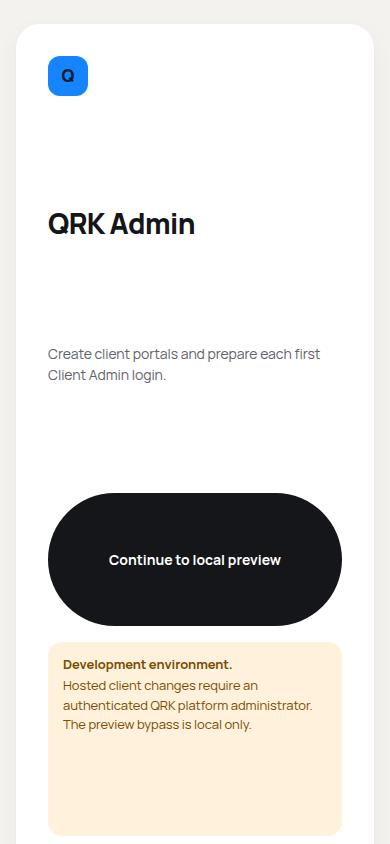
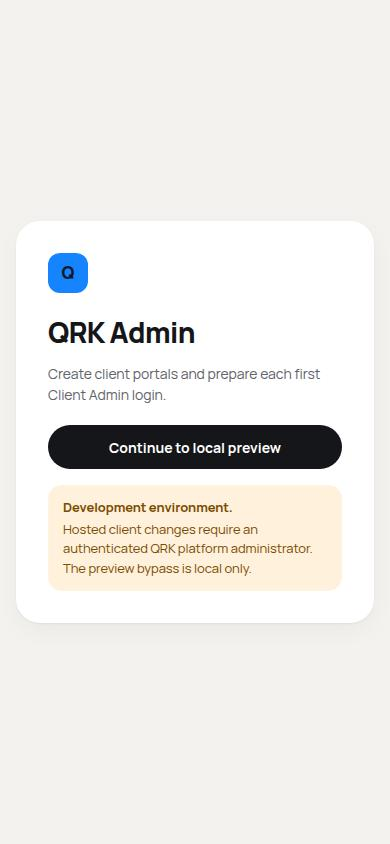
Fix QRK Admin final review findings: manage sheet buttons, gate height, Escape/focus, specimen names

Changed region(s): [[0.1231, 0.2464, 0.8923, 0.7393], [0.1538, 0.7701, 0.8, 0.8934], [0.1231, 0.0616, 0.2462, 0.1232]]

diff --git a/dist/admin/admin.js b/dist/admin/admin.js
@@ -9,7 +9,7 @@ if(!hosted)$('#platform-login-form').hidden=true;else $('#platform-continue').hi
 function readClients(){let saved=[];try{const value=JSON.parse(localStorage.getItem(CLIENTS_KEY)||'[]');if(Array.isArray(value))saved=value}catch{}const canonicalIds=new Set(DEVELOPMENT_CLIENTS.map(client=>client.id)),savedById=new Map(saved.map(client=>[client.id,client])),savedBySlug=new Map(saved.map(client=>[client.slug,client])),merged=[...saved.filter(client=>!canonicalIds.has(client.id)&&!DEVELOPMENT_CLIENTS.some(seed=>seed.slug===client.slug)),...DEVELOPMENT_CLIENTS.map(client=>{const stored=savedById.get(client.id)||savedBySlug.get(client.slug);return{...client,...stored,admin:{...client.admin,...stored?.admin}}})];localStorage.setItem(CLIENTS_KEY,JSON.stringify(merged));return merged}
 function saveClients(){localStorage.setItem(CLIENTS_KEY,JSON.stringify(clients))}
 async function loadClients(){clients=hosted?await platformService.list():readClients();render()}
-async function openWorkspace(preview=false){if(hosted&&!preview)await loadClients();$('#platform-login').hidden=true;$('#platform-shell').hidden=false;$('#platform-access-label').textContent=preview?'Local preview':'Hosted access';showView('overview');render();setTimeout(()=>document.body.classList.add('admin-settled'),600)}
+async function openWorkspace(preview=false){if(hosted&&!preview)await loadClients();$('#platform-login').hidden=true;$('#platform-shell').hidden=false;{const pill=$('#platform-access-label');pill.textContent=preview?'Local preview':'Hosted access';pill.classList.toggle('is-neutral',!preview);if(preview)pill.title='Development environment. Clients and credentials created here are stored in this browser and are not hosted accounts.';else pill.removeAttribute('title')}showView('overview');render();setTimeout(()=>document.body.classList.add('admin-settled'),600)}
 function segment(value){return String(value||'').normalize('NFKD').replace(/[\u0300-\u036f]/g,'').toLowerCase().replace(/[^a-z0-9]+/g,'-').replace(/^-+|-+$/g,'')}
 function usernameSegment(value){return String(value||'').toLowerCase().replace(/[^a-z0-9_-]+/g,'')}
 function announce(message){const toast=$('#platform-toast');toast.textContent=message;toast.hidden=false;clearTimeout(toastTimer);toastTimer=setTimeout(()=>toast.hidden=true,3200)}
@@ -37,7 +37,7 @@ const plural=(count,word)=>`${count} ${word}${count===1?'':'s'}`;
 const recentClients=()=>clients.map((client,index)=>({client,index,time:Date.parse(client.createdAt)||0})).sort((a,b)=>b.time-a.time||b.index-a.index).slice(0,6).map(item=>item.client);
 function overviewMarkup(){const stats=overviewStats(clients,statuses),attention=[stats.paused&&`${stats.paused} paused`,stats.pending&&plural(stats.pending,'first login')+' pending'].filter(Boolean).join(' · ');return `<article class="admin-stat is-strong"><span>Live portals</span><p><strong>${stats.active}</strong> of ${stats.total} active</p><div class="admin-segments" aria-hidden="true">${clients.map(client=>`<i${client.status==='paused'?'':' class="is-on"'}></i>`).join('')}</div></article><article class="admin-stat"><span>Needs attention</span>${stats.attentionCount?`<p><strong class="is-warn">${stats.attentionCount}</strong> ${attention}</p><small>${stats.attention.map(esc).join(' · ')}</small>`:'<p><strong>0</strong> <b class="is-ok">All clear</b></p>'}</article><article class="admin-stat"><span>Service mix</span><div class="admin-mix" aria-hidden="true">${stats.mix.map((item,index)=>`<i style="width:${item.count/stats.total*100}%;background:${MIX_COLORS[index%MIX_COLORS.length]}"></i>`).join('')}</div><ul class="admin-legend">${stats.mix.map((item,index)=>`<li><i style="background:${MIX_COLORS[index%MIX_COLORS.length]}"></i>${esc(item.label)} <b>${item.count}</b></li>`).join('')}</ul></article>`}
 function renderClients(){const list=filterClients(clients,{query:clientQuery,filter:clientFilter},statuses),counts=filterCounts(clients,statuses),empty=$('#client-empty');$$('[data-client-filter]').forEach(button=>{button.querySelector('span').textContent=counts[button.dataset.clientFilter];button.setAttribute('aria-pressed',String(button.dataset.clientFilter===clientFilter))});$('#client-list').innerHTML=list.map(card).join('');empty.hidden=list.length>0;empty.innerHTML=clients.length?'<h2>No clients match</h2><p>Try another search or filter.</p><button class="button outline" type="button" data-clear-filters>Clear filters</button>':'<h2>Add your first client</h2><p>Create a portal and its first Client Admin login.</p><button class="button primary" type="button" data-add-client>Add client</button>'}
-function render(){const count=clients.length;$('#nav-client-count').textContent=count;$('#overview-stats').innerHTML=overviewMarkup();$('#view-all-clients').textContent=`View all ${count}`;$('#recent-client-list').innerHTML=recentClients().map(card).join('');$('#admin-count-label').textContent=plural(count,'account');$('#admin-list').innerHTML=clients.map(client=>adminRow(client,statuses)).join('');renderClients();renderManageSheet()}
+function render(){const count=clients.length;$('#nav-client-count').textContent=count;$('.admin-rail [data-admin-view="clients"]').setAttribute('aria-label',`Clients, ${count}`);$('#overview-stats').innerHTML=overviewMarkup();$('#view-all-clients').textContent=`View all ${count}`;$('#recent-client-list').innerHTML=recentClients().map(card).join('');$('#admin-count-label').textContent=plural(count,'account');$('#admin-list').innerHTML=clients.map(client=>adminRow(client,statuses)).join('');renderClients();renderManageSheet()}
 async function refreshStatuses(){try{statuses=await authService.previewAccountStatuses()}catch{statuses=null}render()}
 function showView(view){$$('[data-view-panel]').forEach(panel=>panel.hidden=panel.dataset.viewPanel!==view);$$('.admin-rail [data-admin-view]').forEach(button=>button.dataset.adminView===view?button.setAttribute('aria-current','page'):button.removeAttribute('aria-current'));const labels={overview:'Overview',clients:'Clients',accounts:'Client Admins',appearance:'Appearance'};$('#platform-page-title').textContent=labels[view];$('.admin-add-client').hidden=!['overview','clients'].includes(view);document.title=`QRK MENU | ${labels[view]}`;window.scrollTo(0,0)}
 const GATES={quick:[['consumption','Consumption','dine-in / takeaway'],['fulfillment','Fulfillment','table / pickup'],['quick_payment','Payment','counter'],['locator','Order locator','table number']],table:[['table_entry','Table entry','permanent QR'],['party_size','Party size','required'],['bundle','Bundle selection','none'],['entry_payment','Entry payment','none'],['entitlement','Entitlements & refills','none'],['time_limit','Time limit','none'],['quantity_limit','Quantity limit','none'],['payment_timing','Payment timing','at bill'],['joining','Joining','host approval'],['host_permissions','Host permissions','approve guest orders'],['bill_closure','Bill & closure','lock after bill'],['inactivity','Inactivity','120 min + grace']]};
@@ -60,10 +60,10 @@ function openClientDialog(client=null){const form=$('#client-form');form.reset()
 $('#platform-continue').addEventListener('click',async()=>{try{await authService.migratePreviewUsers();await openWorkspace(true)}catch(reason){announce(reason.message)}});
 $('#platform-login-form').addEventListener('submit',async event=>{event.preventDefault();const error=$('#platform-login-error');error.textContent='';try{await authService.signInPlatform(event.currentTarget.elements.username.value,event.currentTarget.elements.password.value);await openWorkspace()}catch(reason){error.textContent=reason.message}});
 $('#platform-logout').addEventListener('click',async()=>{await authService.signOut();$('#platform-shell').hidden=true;$('#platform-login').hidden=false;document.title='QRK MENU | QRK Admin';(hosted?$('#platform-login-form input'):$('#platform-continue')).focus()});
-document.addEventListener('click',async event=>{if(!hosted)return;const action=event.target.closest('[data-reset-client-password],[data-open-client],[data-toggle-client]');if(!action)return;event.stopImmediatePropagation();const client=clients.find(item=>item.id===action.closest('[data-client-id]').dataset.clientId);try{if(action.matches('[data-reset-client-password]')){action.disabled=true;const credentials=await platformService.reset(client.id);$('#credentials-title').textContent='Share the reset Client Admin login';$('#credentials-intro').textContent='This replacement temporary password is shown once. The Client Admin must replace it at next login.';$('#created-admin-username').textContent=credentials.username;$('#created-admin-password').textContent=credentials.temporaryPassword;$('#credentials-dialog').showModal();announce(`${client.businessName} temporary password reset`)}else if(action.matches('[data-open-client]'))location.href='/?client-login=1';else{await platformService.pause(client.id,client.status!=='active');await loadClients();announce(`${client.businessName} ${client.status==='active'?'activated':'paused'} in hosted development`)}}catch(reason){announce(reason.message)}finally{if(action.isConnected)action.disabled=false}},true);
+document.addEventListener('click',async event=>{if(!hosted)return;const action=event.target.closest('[data-reset-client-password],[data-open-client],[data-toggle-client]');if(!action)return;event.stopImmediatePropagation();const client=clients.find(item=>item.id===action.closest('[data-client-id]').dataset.clientId);try{if(action.matches('[data-reset-client-password]')){action.disabled=true;const credentials=await platformService.reset(client.id);$('#credentials-title').textContent='Share the reset Client Admin login';$('#credentials-intro').textContent='This replacement temporary password is shown once. The Client Admin must replace it at next login.';$('#created-admin-username').textContent=credentials.username;$('#created-admin-password').textContent=credentials.temporaryPassword;manageController.close({restoreFocus:false});$('#credentials-dialog').showModal();announce(`${client.businessName} temporary password reset`)}else if(action.matches('[data-open-client]'))location.href='/?client-login=1';else{await platformService.pause(client.id,client.status!=='active');await loadClients();announce(`${client.businessName} ${client.status==='active'?'activated':'paused'} in hosted development`)}}catch(reason){announce(reason.message)}finally{if(action.isConnected)action.disabled=false}},true);
 $('#client-search').addEventListener('input',event=>{clientQuery=event.target.value;renderClients()});
 document.addEventListener('click',event=>{const filter=event.target.closest('[data-client-filter]');if(filter){clientFilter=filter.dataset.clientFilter;renderClients()}if(event.target.closest('[data-clear-filters]')){clientQuery='';clientFilter='all';$('#client-search').value='';renderClients();$('#client-search').focus()}});
-document.addEventListener('click',async event=>{const view=event.target.closest('[data-admin-view]');if(view)showView(view.dataset.adminView);if(event.target.closest('[data-add-client]'))openClientDialog();const configure=event.target.closest('[data-configure-client]');if(configure){const id=configure.closest('[data-client-id]').dataset.clientId;openClientDialog(clients.find(client=>client.id===id))}if(event.target.closest('.close-dialog'))event.target.closest('dialog').close();const reset=event.target.closest('[data-reset-client-password]');if(reset){const id=reset.closest('[data-client-id]').dataset.clientId,client=clients.find(item=>item.id===id);reset.disabled=true;try{const credentials=await authService.resetPreviewUserPassword(client.admin.username,{displayName:client.admin.name,email:client.admin.email,role:'admin',permissions:{viewOrders:true,acceptOrders:true,prepareOrders:true,markReady:true,completeOrders:true,cancelOrders:true,changeAvailability:true,editMenu:true,viewOrderHistory:true,viewSales:true,manageStaff:true},businessId:`preview:${client.slug}`,businessName:client.businessName,businessSlug:client.slug,serviceMode:client.serviceProfile.settings.serviceMode,active:client.status==='active'});client.admin.access='Password reset required';saveClients();render();refreshStatuses();$('#credentials-title').textContent='Share the reset Client Admin login';$('#credentials-intro').textContent='This replacement temporary password is shown once. The Client Admin must replace it at next login.';$('#created-admin-username').textContent=credentials.username;$('#created-admin-password').textContent=credentials.temporaryPassword;$('#credentials-dialog').showModal();announce(`${client.businessName} temporary password reset`)}catch(reason){announce(reason.message)}finally{if(reset.isConnected)reset.disabled=false}}const openClient=event.target.closest('[data-open-client]');if(openClient){const id=openClient.closest('[data-client-id]').dataset.clientId,client=clients.find(item=>item.id===id);try{await authService.signInDevelopment({displayName:client.admin.name,username:client.admin.username,businessId:`preview:${client.slug}`,businessName:client.businessName,businessSlug:client.slug,serviceMode:client.serviceProfile.settings.serviceMode,role:'admin',permissions:{viewOrders:true,acceptOrders:true,prepareOrders:true,markReady:true,completeOrders:true,cancelOrders:true,changeAvailability:true,editMenu:true,viewOrderHistory:true,viewSales:true,manageStaff:true}});location.href='/'}catch(reason){announce(reason.message)}}const toggle=event.target.closest('[data-toggle-client]');if(toggle){const id=toggle.closest('[data-client-id]').dataset.clientId,client=clients.find(item=>item.id===id);client.status=client.status==='active'?'paused':'active';saveClients();render();announce(`${client.businessName} ${client.status==='active'?'activated':'paused'} in this preview`)}});
+document.addEventListener('click',async event=>{const view=event.target.closest('[data-admin-view]');if(view)showView(view.dataset.adminView);if(event.target.closest('[data-add-client]'))openClientDialog();const configure=event.target.closest('[data-configure-client]');if(configure){const id=configure.closest('[data-client-id]').dataset.clientId;openClientDialog(clients.find(client=>client.id===id))}if(event.target.closest('.close-dialog'))event.target.closest('dialog').close();const reset=event.target.closest('[data-reset-client-password]');if(reset){const id=reset.closest('[data-client-id]').dataset.clientId,client=clients.find(item=>item.id===id);reset.disabled=true;try{const credentials=await authService.resetPreviewUserPassword(client.admin.username,{displayName:client.admin.name,email:client.admin.email,role:'admin',permissions:{viewOrders:true,acceptOrders:true,prepareOrders:true,markReady:true,completeOrders:true,cancelOrders:true,changeAvailability:true,editMenu:true,viewOrderHistory:true,viewSales:true,manageStaff:true},businessId:`preview:${client.slug}`,businessName:client.businessName,businessSlug:client.slug,serviceMode:client.serviceProfile.settings.serviceMode,active:client.status==='active'});client.admin.access='Password reset required';saveClients();render();refreshStatuses();$('#credentials-title').textContent='Share the reset Client Admin login';$('#credentials-intro').textContent='This replacement temporary password is shown once. The Client Admin must replace it at next login.';$('#created-admin-username').textContent=credentials.username;$('#created-admin-password').textContent=credentials.temporaryPassword;manageController.close({restoreFocus:false});$('#credentials-dialog').showModal();announce(`${client.businessName} temporary password reset`)}catch(reason){announce(reason.message)}finally{if(reset.isConnected)reset.disabled=false}}const openClient=event.target.closest('[data-open-client]');if(openClient){const id=openClient.closest('[data-client-id]').dataset.clientId,client=clients.find(item=>item.id===id);try{await authService.signInDevelopment({displayName:client.admin.name,username:client.admin.username,businessId:`preview:${client.slug}`,businessName:client.businessName,businessSlug:client.slug,serviceMode:client.serviceProfile.settings.serviceMode,role:'admin',permissions:{viewOrders:true,acceptOrders:true,prepareOrders:true,markReady:true,completeOrders:true,cancelOrders:true,changeAvailability:true,editMenu:true,viewOrderHistory:true,viewSales:true,manageStaff:true}});location.href='/'}catch(reason){announce(reason.message)}}const toggle=event.target.closest('[data-toggle-client]');if(toggle){const id=toggle.closest('[data-client-id]').dataset.clientId,client=clients.find(item=>item.id===id);client.status=client.status==='active'?'paused':'active';saveClients();render();announce(`${client.businessName} ${client.status==='active'?'activated':'paused'} in this preview`)}});
 const clientForm=$('#client-form');
 let sheetSnapshot=null;
 function cloneServiceBuilder(){return{modes:new Set(serviceBuilder.modes),experiences:structuredClone(serviceBuilder.experiences)}}
@@ -71,7 +71,7 @@ function captureSheetDraft(){return{fields:Object.fromEntries(['businessName','l
 function restoreSheetDraft(snapshot){if(!snapshot)return;for(const [name,value] of Object.entries(snapshot.fields))clientForm.elements[name].value=value;serviceBuilder=snapshot.builder;renderGateBoards($('#client-sheet').dataset.sheetType);updateFormPreviews()}
 let managedClientId=null;
 const manageController=window.QrkSheet.create({sheet:$('#manage-sheet'),backdrop:$('#manage-sheet-backdrop'),onDismiss:()=>{const id=managedClientId;managedClientId=null;setTimeout(()=>{if(document.querySelector('dialog[open]'))return;[...document.querySelectorAll(`[data-client-id="${CSS.escape(id)}"] [data-manage-client]`)].find(button=>button.getClientRects().length)?.focus({preventScroll:true})},360)}});
-function renderManageSheet(){const refocus=$('#manage-sheet-body').contains(document.activeElement)&&document.activeElement!==$('#manage-sheet-body');const client=clients.find(item=>item.id===managedClientId);if(!client){if(managedClientId&&manageController.isOpen)manageController.close();return}const state=clientStatus(client,statuses);$('#manage-sheet-body').innerHTML=`<header class="admin-manage-head"><span class="admin-manage-band" style="background:${bandColor(client.businessName)}"></span><span class="admin-client-initial">${esc(String(client.businessName).charAt(0).toUpperCase())}</span><button class="admin-manage-close" type="button" data-close-manage aria-label="Close">×</button><strong id="manage-sheet-title" tabindex="-1">${esc(client.businessName)}</strong><span class="admin-status-pill is-${state}">${{active:'Active',paused:'Paused',pending:'First login pending'}[state]}</span></header>${manageSheetBody(client,{hosted,statuses})}`;if(refocus)($('#manage-sheet [data-toggle-client]')||$('#manage-sheet-title')).focus({preventScroll:true})}
+function renderManageSheet(){const active=document.activeElement,refocus=$('#manage-sheet-body').contains(active)&&active!==$('#manage-sheet-body')&&[...active.attributes].find(a=>a.name.startsWith('data-'));const client=clients.find(item=>item.id===managedClientId);if(!client){if(managedClientId&&manageController.isOpen)manageController.close();return}const state=clientStatus(client,statuses);$('#manage-sheet-body').innerHTML=`<header class="admin-manage-head"><span class="admin-manage-band" style="background:${bandColor(client.businessName)}"></span><span class="admin-client-initial">${esc(String(client.businessName).charAt(0).toUpperCase())}</span><button class="admin-manage-close" type="button" data-close-manage aria-label="Close">×</button><strong id="manage-sheet-title" tabindex="-1">${esc(client.businessName)}</strong><span class="admin-status-pill is-${state}">${{active:'Active',paused:'Paused',pending:'First login pending'}[state]}</span></header>${manageSheetBody(client,{hosted,statuses})}`;if(refocus)($('#manage-sheet-body ['+refocus.name+']')||$('#manage-sheet-title')).focus({preventScroll:true})}
 function openManageSheet(id,source){managedClientId=id;renderManageSheet();$('#manage-sheet').setAttribute('aria-labelledby','manage-sheet-title');manageController.open({source})}
 function closeManageSheet(){manageController.close()}
 document.addEventListener('click',event=>{if(event.target.closest('#manage-sheet [data-configure-client]'))manageController.close()},true);

diff --git a/dist/admin/index.html b/dist/admin/index.html
@@ -1,10 +1,10 @@
 <!doctype html>
-<html lang="en"><head><meta charset="UTF-8"><meta http-equiv="Content-Security-Policy" content="default-src 'self'; script-src 'self'; style-src 'self' 'unsafe-inline' https://fonts.googleapis.com; img-src 'self' data: blob: https:; font-src 'self' data: https://fonts.gstatic.com; connect-src 'self' https://*.supabase.co wss://*.supabase.co http://127.0.0.1:54321 http://localhost:54321 http://*:54321; worker-src 'self'; manifest-src 'self'; object-src 'none'; base-uri 'none'; form-action 'self'"><meta name="viewport" content="width=device-width,initial-scale=1,viewport-fit=cover"><meta name="theme-color" content="#F7F9FC"><meta name="mobile-web-app-capable" content="yes"><meta name="apple-mobile-web-app-capable" content="yes"><meta name="apple-mobile-web-app-status-bar-style" content="default"><meta name="apple-mobile-web-app-title" content="QRK MENU"><title>QRK MENU | QRK Admin</title><link rel="icon" type="image/png" href="/assets/brand/qrk-mark.png"><link rel="apple-touch-icon" href="/assets/brand/qrk-mark.png"><link rel="manifest" href="/manifest.webmanifest"><link rel="stylesheet" href="/theme.css?v=2"><link rel="stylesheet" href="/pwa.css?v=1"><link rel="stylesheet" href="/dashboard.css"><link rel="stylesheet" href="/reference-theme.css?v=2"><link rel="stylesheet" href="/modern-compact.css?v=1"><link rel="stylesheet" href="/ui-components.css?v=19"><link rel="stylesheet" href="/admin/admin.css?v=8"><script src="/global-theme.js"></script><script src="/pwa.js" defer></script><script src="/ui-components.js?v=10" defer></script></head>
+<html lang="en"><head><meta charset="UTF-8"><meta http-equiv="Content-Security-Policy" content="default-src 'self'; script-src 'self'; style-src 'self' 'unsafe-inline' https://fonts.googleapis.com; img-src 'self' data: blob: https:; font-src 'self' data: https://fonts.gstatic.com; connect-src 'self' https://*.supabase.co wss://*.supabase.co http://127.0.0.1:54321 http://localhost:54321 http://*:54321; worker-src 'self'; manifest-src 'self'; object-src 'none'; base-uri 'none'; form-action 'self'"><meta name="viewport" content="width=device-width,initial-scale=1,viewport-fit=cover"><meta name="theme-color" content="#F7F9FC"><meta name="mobile-web-app-capable" content="yes"><meta name="apple-mobile-web-app-capable" content="yes"><meta name="apple-mobile-web-app-status-bar-style" content="default"><meta name="apple-mobile-web-app-title" content="QRK MENU"><title>QRK MENU | QRK Admin</title><link rel="icon" type="image/png" href="/assets/brand/qrk-mark.png"><link rel="apple-touch-icon" href="/assets/brand/qrk-mark.png"><link rel="manifest" href="/manifest.webmanifest"><link rel="stylesheet" href="/theme.css?v=2"><link rel="stylesheet" href="/pwa.css?v=1"><link rel="stylesheet" href="/dashboard.css"><link rel="stylesheet" href="/reference-theme.css?v=2"><link rel="stylesheet" href="/modern-compact.css?v=1"><link rel="stylesheet" href="/ui-components.css?v=19"><link rel="stylesheet" href="/admin/admin.css?v=9"><script src="/global-theme.js"></script><script src="/pwa.js" defer></script><script src="/ui-components.js?v=10" defer></script></head>
 <body class="platform-admin-body">
 <a class="platform-skip-link" href="#platform-content">Skip to content</a>
 <main class="login-screen" id="platform-login"><section class="login-card"><span class="admin-logo-tile" aria-hidden="true">Q</span><h1>QRK Admin</h1><p>Create client portals and prepare each first Client Admin login.</p><form id="platform-login-form" class="platform-login-form"><label>Username<input name="username" autocomplete="username" required></label><label>Password<input name="password" type="password" autocomplete="current-password" required></label><p class="form-error" id="platform-login-error" role="alert"></p><button class="button primary platform-continue" id="platform-sign-in" type="submit">Sign in to QRK Admin</button></form><button class="button primary platform-continue" id="platform-continue" type="button">Continue to local preview</button><p class="staged-note"><strong>Development environment.</strong> Hosted client changes require an authenticated QRK platform administrator. The preview bypass is local only.</p></section></main>
 <div class="platform-shell" id="platform-shell" hidden><nav class="admin-rail" id="platform-navigation" aria-label="QRK administration"><span class="admin-logo-tile" aria-hidden="true">Q</span><button type="button" data-admin-view="overview" aria-label="Overview"><svg aria-hidden="true" width="20" height="20" viewBox="0 0 24 24" fill="none" stroke="currentColor" stroke-width="1.8" stroke-linecap="round" stroke-linejoin="round"><rect x="3" y="3" width="7" height="9" rx="1.5"/><rect x="14" y="3" width="7" height="5" rx="1.5"/><rect x="14" y="12" width="7" height="9" rx="1.5"/><rect x="3" y="16" width="7" height="5" rx="1.5"/></svg><span class="admin-rail-tip">Overview</span></button><button type="button" data-admin-view="clients" aria-label="Clients"><svg aria-hidden="true" width="20" height="20" viewBox="0 0 24 24" fill="none" stroke="currentColor" stroke-width="1.8" stroke-linecap="round" stroke-linejoin="round"><path d="M4 21V9l8-5 8 5v12"/><path d="M9 21v-6h6v6"/></svg><span class="admin-rail-count" id="nav-client-count" aria-hidden="true">0</span><span class="admin-rail-tip">Clients</span></button><button type="button" data-admin-view="accounts" aria-label="Client Admins"><svg aria-hidden="true" width="20" height="20" viewBox="0 0 24 24" fill="none" stroke="currentColor" stroke-width="1.8" stroke-linecap="round" stroke-linejoin="round"><circle cx="12" cy="8" r="4"/><path d="M4 21c1.5-4 5-6 8-6s6.5 2 8 6"/></svg><span class="admin-rail-tip">Client Admins</span></button><button type="button" data-admin-view="appearance" aria-label="Appearance"><svg aria-hidden="true" width="20" height="20" viewBox="0 0 24 24" fill="none" stroke="currentColor" stroke-width="1.8" stroke-linecap="round" stroke-linejoin="round"><circle cx="12" cy="12" r="9"/><path d="M12 3a9 9 0 0 0 0 18z" fill="currentColor"/></svg><span class="admin-rail-tip">Appearance</span></button><button type="button" id="platform-logout" class="admin-rail-logout" aria-label="Log out"><svg aria-hidden="true" width="20" height="20" viewBox="0 0 24 24" fill="none" stroke="currentColor" stroke-width="1.8" stroke-linecap="round" stroke-linejoin="round"><path d="M15 4h4v16h-4"/><path d="M10 8l-4 4 4 4"/><path d="M6 12h10"/></svg><span class="admin-rail-tip">Log out</span></button></nav>
-<main class="platform-content" id="platform-content" tabindex="-1"><header class="admin-page-header"><div><span class="admin-kicker">QRK Admin</span><h1 id="platform-page-title">Overview</h1></div><span class="admin-env-pill" id="platform-access-label" title="Development environment. Clients and credentials created here are stored in this browser and are not hosted accounts.">Local preview</span><button class="button primary admin-add-client" type="button" data-add-client><svg aria-hidden="true" width="16" height="16" viewBox="0 0 24 24" fill="none" stroke="currentColor" stroke-width="2.2" stroke-linecap="round"><path d="M12 5v14M5 12h14"/></svg>Add client</button></header>
+<main class="platform-content" id="platform-content" tabindex="-1"><header class="admin-page-header"><div><span class="admin-kicker">QRK Admin</span><h1 id="platform-page-title">Overview</h1></div><span class="admin-env-pill" id="platform-access-label">Local preview</span><button class="button primary admin-add-client" type="button" data-add-client><svg aria-hidden="true" width="16" height="16" viewBox="0 0 24 24" fill="none" stroke="currentColor" stroke-width="2.2" stroke-linecap="round"><path d="M12 5v14M5 12h14"/></svg>Add client</button></header>
 <section data-view-panel="overview"><div class="admin-stats" id="overview-stats"></div><div class="admin-section-head"><h2>Clients</h2><button class="admin-link" type="button" data-admin-view="clients" id="view-all-clients">View all</button></div><div class="admin-client-grid" id="recent-client-list"></div></section>
 <section data-view-panel="clients" hidden><div class="admin-toolbar"><label class="admin-search"><span class="sr-only">Search clients</span><svg aria-hidden="true" width="18" height="18" viewBox="0 0 24 24" fill="none" stroke="currentColor" stroke-width="2" stroke-linecap="round"><circle cx="11" cy="11" r="7"/><path d="m20 20-3.5-3.5"/></svg><input id="client-search" type="search" placeholder="Search business, prefix or admin" autocomplete="off"></label><div class="admin-filters" role="group" aria-label="Filter clients"><button type="button" data-client-filter="all" aria-pressed="true">All <span>0</span></button><button type="button" data-client-filter="quick" aria-pressed="false">Quick <span>0</span></button><button type="button" data-client-filter="table" aria-pressed="false">Table <span>0</span></button><button type="button" data-client-filter="paused" aria-pressed="false">Paused <span>0</span></button><button type="button" data-client-filter="attention" aria-pressed="false">Needs attention <span>0</span></button></div></div><div class="admin-client-grid" id="client-list"></div><div class="admin-empty" id="client-empty" hidden></div></section>
 <section data-view-panel="accounts" hidden><section class="platform-notice"><strong>Clear boundary.</strong> <span>Client staff accounts are created and managed inside each client portal, not by QRK Admin.</span></section><section class="platform-card"><div class="platform-card-heading"><div><h2>Client Admin directory</h2><p>One initial handoff per prepared client.</p></div><span id="admin-count-label">0 accounts</span></div><div id="admin-list"></div></section></section>
@@ -12,4 +12,4 @@
 <button class="admin-sheet-backdrop" id="manage-sheet-backdrop" type="button" aria-label="Close client" hidden></button><section class="admin-manage-sheet" id="manage-sheet" role="dialog" aria-modal="true" aria-label="Manage client" tabindex="-1" hidden><div id="manage-sheet-body"></div></section>
 <dialog id="client-dialog" aria-labelledby="client-dialog-title"><form method="dialog" id="client-form"><div class="dialog-heading"><div><p class="eyebrow" id="client-dialog-eyebrow">NEW CLIENT</p><h2 id="client-dialog-title">Create client portal</h2></div><button class="icon-button close-dialog" type="button" aria-label="Close">×</button></div><input type="hidden" name="businessName"><input type="hidden" name="locationName"><input type="hidden" name="slug"><input type="hidden" name="prefix"><input type="hidden" name="adminName"><input type="hidden" name="adminEmail"><input type="hidden" name="adminUsername"><input type="checkbox" name="serviceModeQuick" hidden><input type="checkbox" name="serviceModeTable" hidden checked><select name="presetChoice" id="preset-choice" hidden></select><div class="client-settings-list qrk-settings-list"><button type="button" data-open-client-sheet="business"><span><strong>Business details</strong><small id="business-details-summary">Name, location and portal</small></span><i aria-hidden="true">›</i></button><button type="button" data-open-client-sheet="services"><span><strong>Business services</strong><small id="business-services-summary">Table</small></span><i aria-hidden="true">›</i></button><button type="button" data-open-client-sheet="quick" id="quick-settings-row" hidden><span><strong>Quick settings</strong><small id="quick-settings-summary">4 gates</small></span><i aria-hidden="true">›</i></button><button type="button" data-open-client-sheet="table" id="table-settings-row"><span><strong>Table settings</strong><small id="table-settings-summary">7 gates</small></span><i aria-hidden="true">›</i></button><button type="button" data-open-client-sheet="admin"><span><strong>Client Admin</strong><small id="client-admin-summary">Initial account</small></span><i aria-hidden="true">›</i></button></div><section class="journey-preview" aria-live="polite"><span>CUSTOMER JOURNEY</span><p id="journey-preview"></p></section><p class="form-error" id="client-form-error" role="alert"></p><div class="dialog-footer"><button class="button outline close-dialog" type="button">Cancel</button><button class="button primary" id="save-client" type="submit">Create client</button></div><button class="qrk-sheet-backdrop" id="client-sheet-backdrop" type="button" aria-label="Close editor" hidden></button><section class="client-sheet qrk-sheet" id="client-sheet" role="dialog" aria-modal="true" aria-labelledby="client-sheet-title" tabindex="-1" hidden><header><button type="button" class="sheet-close" id="close-client-sheet" aria-label="Close">×</button><strong id="client-sheet-title"></strong><button type="button" class="sheet-done" id="done-client-sheet" aria-label="Done">✓</button></header><div class="client-sheet-body qrk-sheet-body" id="client-sheet-body"></div></section></form></dialog>
 <dialog id="credentials-dialog" aria-labelledby="credentials-title"><div class="dialog-heading"><div><p class="eyebrow">CLIENT READY</p><h2 id="credentials-title">Share the Client Admin login</h2></div><button class="icon-button close-dialog" type="button" aria-label="Close">×</button></div><p class="dialog-intro" id="credentials-intro">This temporary password is shown for the handoff. The Client Admin must replace it at first login.</p><span class="admin-status-pill is-pending admin-shown-once">Shown once</span><div class="credential-card"><span>Username</span><strong id="created-admin-username"></strong><span>Temporary password</span><strong id="created-admin-password"></strong></div><div class="dialog-footer"><button class="button outline" id="copy-client-login" type="button">Copy login details</button><button class="button primary close-dialog" type="button">Done</button></div></dialog>
-<div class="platform-toast" id="platform-toast" role="status" aria-live="polite" hidden></div><script src="/data/qrk-config.local.js"></script><script type="module" src="/admin/admin.js?v=8"></script></body></html>
+<div class="platform-toast" id="platform-toast" role="status" aria-live="polite" hidden></div><script src="/data/qrk-config.local.js"></script><script type="module" src="/admin/admin.js?v=9"></script></body></html>

diff --git a/dist/components/index.html b/dist/components/index.html
@@ -149,8 +149,8 @@
     <section class="catalog-section" id="admin">
       <div class="section-title"><span>13</span><div><h2>QRK Admin and client provisioning</h2><p>Platform metrics, client rows, account directory, presets, and journey preview.</p></div></div>
       <div class="platform-metrics"><article><small>Client portals</small><b>5</b><span>Total prepared</span></article><article><small>Active clients</small><b>5</b><span>Available portals</span></article><article><small>Client Admins</small><b>5</b><span>Initial access</span></article></div>
-      <article class="specimen"><div class="spec-head"><b>Client portal row</b><code>.platform-client-row</code></div><div class="client-row"><div class="client-name"><span>K.</span><div><b>Kusina Manila</b><small>Quick / counter service · Ermita</small></div></div><code>kusina.</code><em class="badge success">Active</em><div><button class="ui-button primary">Admin workspace</button><button class="ui-button outline">Customer view</button><button class="ui-button subtle">Pause</button></div></div></article>
-      <article class="specimen"><div class="spec-head"><b>Client Admin directory row</b><code>.platform-account-row</code></div><div class="admin-row"><span><b>Jonathan Yuson</b><small>owner@kusinamanila.example</small></span><span>Kusina Manila</span><code>kusina-admin</code><em class="badge neutral">Development shortcut</em></div></article>
+      <article class="specimen"><div class="spec-head"><b>Client portal row</b><code>.admin-client-card</code></div><div class="client-row"><div class="client-name"><span>K.</span><div><b>Kusina Manila</b><small>Quick / counter service · Ermita</small></div></div><code>kusina.</code><em class="badge success">Active</em><div><button class="ui-button primary">Admin workspace</button><button class="ui-button outline">Customer view</button><button class="ui-button subtle">Pause</button></div></div></article>
+      <article class="specimen"><div class="spec-head"><b>Client Admin directory row</b><code>.admin-account-row</code></div><div class="admin-row"><span><b>Jonathan Yuson</b><small>owner@kusinamanila.example</small></span><span>Kusina Manila</span><code>kusina-admin</code><em class="badge neutral">Development shortcut</em></div></article>
       <div class="spec-grid halves"><article class="specimen"><div class="spec-head"><b>Service preset cards</b><code>.preset-card</code></div><div class="preset-grid"><label class="selected"><input type="radio" checked name="preset"><span><b>Traditional restaurant</b><small>Open a table, order in rounds, and settle at the end.</small></span></label><label><input type="radio" name="preset"><span><b>Restaurant · pay first</b><small>Payment is required before an order reaches staff.</small></span></label><label><input type="radio" name="preset"><span><b>Café or bar tab</b><small>Keep a named table tab open across multiple rounds.</small></span></label><label><input type="radio" name="preset"><span><b>Bundled buffet</b><small>Choose a package before ordering.</small></span></label></div></article><article class="specimen"><div class="spec-head"><b>Journey preview</b><code>.journey-preview</code></div><div class="journey"><small>CUSTOMER JOURNEY</small><p>Main location opens Table service from a table-specific QR; the table host approves additional devices; guest orders require host approval.</p></div></article></div>
     </section>
 

diff --git a/dist/admin/admin.css b/dist/admin/admin.css
@@ -135,7 +135,7 @@
 .admin-logo-tile{display:grid;flex:none;width:40px;height:40px;place-items:center;border-radius:12px;background:var(--admin-accent);color:var(--admin-on-accent);font-size:17px;font-weight:800}
 
 .platform-admin-body .login-screen{display:grid;min-height:100dvh;place-items:center;padding:24px 16px;background:var(--admin-page)}
-.platform-admin-body .login-card{display:grid;gap:12px;width:min(420px,100%);border:0;border-radius:24px;padding:32px;background:var(--admin-surface);box-shadow:var(--admin-shadow);color:var(--admin-ink)}
+.platform-admin-body .login-card{display:grid;min-height:0;align-content:start;gap:12px;width:min(420px,100%);border:0;border-radius:24px;padding:32px;background:var(--admin-surface);box-shadow:var(--admin-shadow);color:var(--admin-ink)}
 .login-card h1{margin:8px 0 0;color:var(--admin-ink);font-size:28px;font-weight:800;letter-spacing:-.02em}
 .login-card>p:not(.staged-note){margin:0;color:var(--admin-muted);font-size:14px;line-height:1.5}
 .platform-continue{width:100%;margin-top:8px}
@@ -159,6 +159,7 @@
 .admin-page-header>div{display:grid;min-width:0;gap:4px}
 .admin-kicker{color:var(--admin-muted);font-size:13px;font-weight:600}
 .admin-page-header h1{margin:0;color:var(--admin-ink);font-size:32px;font-weight:800;letter-spacing:-.025em;line-height:1.1}
+.admin-env-pill.is-neutral{background:var(--admin-surface-2);color:var(--admin-muted);cursor:default}
 .admin-env-pill{display:inline-flex;height:26px;align-items:center;border-radius:var(--admin-radius-control);padding:0 11px;background:var(--admin-warn-bg);color:var(--admin-warn-fg);font-size:12px;font-weight:700;white-space:nowrap;cursor:help}
 .admin-add-client{margin-left:auto}
 
@@ -264,12 +265,15 @@
 .admin-manage h3{margin:0;color:var(--admin-muted);font-size:12px;letter-spacing:.06em;text-transform:uppercase}
 .admin-manage p{margin:0;overflow-wrap:anywhere}
 .admin-manage .button{display:inline-flex;min-height:44px;align-items:center}
+.admin-manage .button.outline{background:var(--admin-surface);box-shadow:inset 0 0 0 1px color-mix(in srgb,var(--admin-ink) 14%,transparent)}
+.admin-manage code{overflow-wrap:anywhere}
 .admin-manage-danger{background:var(--admin-danger-bg)!important}
 .admin-manage-danger h3,.admin-manage-danger p{color:var(--admin-danger-fg)}
 .admin-manage .button.is-danger{background:var(--admin-danger-fg);color:var(--admin-danger-bg)}
 .admin-manage .button.is-accent{background:var(--brand-500);color:var(--brand-foreground,var(--color-black))}
 .admin-login-status{color:var(--admin-muted);font-size:13px}
 @media(max-width:720px){
+.admin-manage section{justify-items:stretch}.admin-manage .button{justify-content:center;width:100%}
 .admin-manage-sheet{top:auto;left:0;width:100%;max-height:88dvh;border-radius:24px 24px 0 0;transform:translateY(100%)}
 .admin-manage-sheet.open{transform:none}
 }

diff --git a/dist/ui-components.css b/dist/ui-components.css
@@ -166,7 +166,7 @@ input[type="checkbox"],input[type="radio"]{accent-color:var(--brand-500)}
 .metric-card,.dashboard-card,.status-strip,.service-note,.demo-banner,.credential-card,
 .item-row,.staff-row,.order-queue-card,.history-order,.history-order-card,.table-card,
 .settings-group,.dish,.desktop-order-card,.active-order,.notice,.option-group,.cart-item,
-.payment-card,.tab-round,.platform-client-row,.platform-account-row,.preset-card,
+.payment-card,.tab-round,.admin-client-card,.admin-account-row,.preset-card,
 .verification-card,.empty-state,.dialog-sample,dialog>.dialog-card{
   border-color:var(--line);
   background:var(--component-card-bg);
@@ -174,7 +174,7 @@ input[type="checkbox"],input[type="radio"]{accent-color:var(--brand-500)}
 .metric-card,.dashboard-card,.status-strip,.service-note,.demo-banner,.credential-card,
 .item-row,.staff-row,.order-queue-card,.history-order,.history-order-card,.table-card,
 .settings-group,.dish,.desktop-order-card,.active-order,.notice,.option-group,.cart-item,
-.payment-card,.tab-round,.platform-client-row,.platform-account-row,.preset-card,
+.payment-card,.tab-round,.admin-client-card,.admin-account-row,.preset-card,
 .verification-card,.empty-state{
   border-radius:var(--component-radius-lg);
 }
